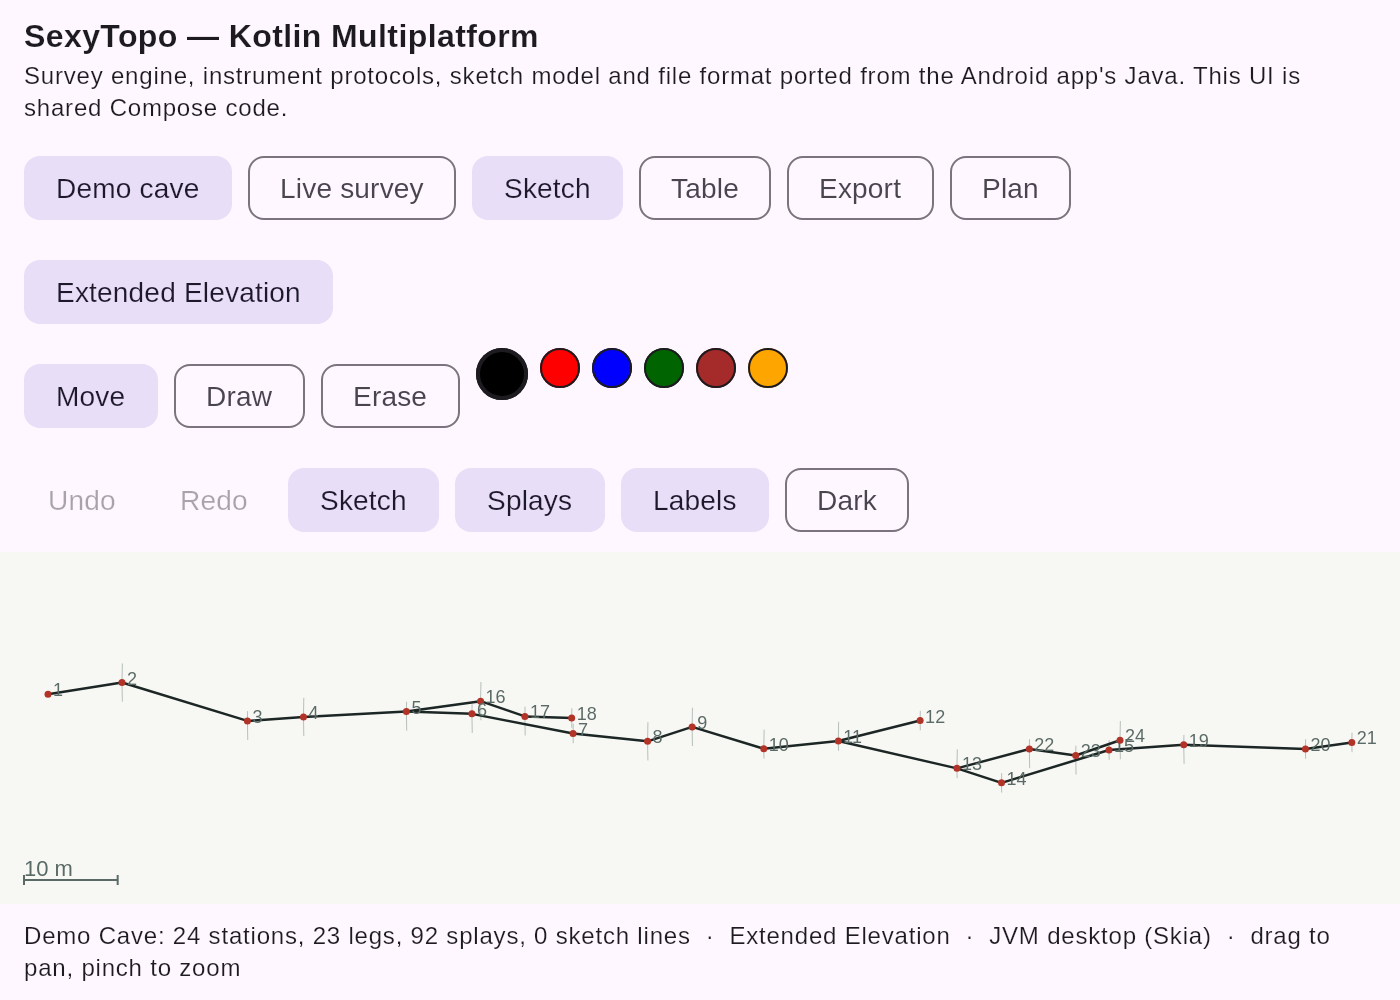
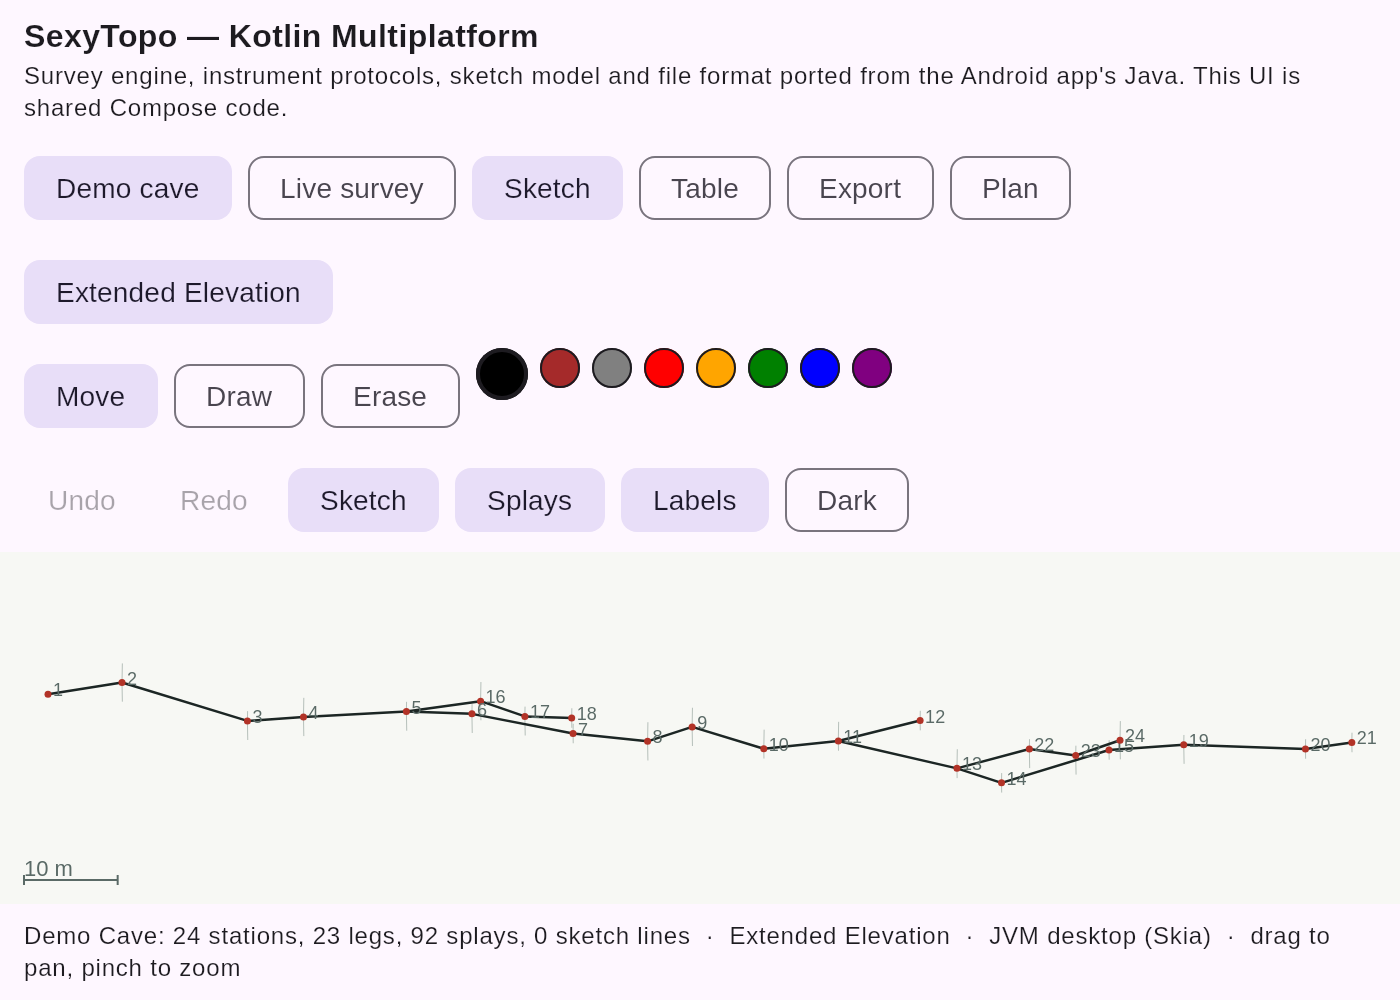
Bring the module README up to date with what the port now does
New rows in the proven/not-proven table for the exporters, the sketch
editor and the BLE connection logic; refreshed screenshots; two more
recorded findings - the assigned-number UUID bug that pulling logic out of
the untestable iOS transport exposed, and the loader's habit of turning
corruption into silent data loss.

Claude-Session: https://claude.ai/code/session_01EsWeeGYHa4RrEbZW2iXKma

Changed region(s): [[0.3686, 0.341, 0.645, 0.403]]

diff --git a/kmp/README.md b/kmp/README.md
@@ -7,9 +7,11 @@ yet. It exists to answer one question with running code rather than argument:
 > actually drive an iOS app?
 
 So far the answer is **yes for everything except the parts that need a Mac to check**. The survey
-engine, the instrument protocols, the projection maths, the sketch model and the native file format
-are ported and covered by 226 tests. The UI — including a drawable sketching canvas — is written
-once in Compose Multiplatform and renders through Skia, which is what Compose uses on iOS.
+engine, the instrument protocols, the projection maths, the sketch model, the sketch *editor*, the
+Survex and Therion exporters and the native file format are ported and covered by 372 tests. The UI
+is written once in Compose Multiplatform and renders through Skia, which is what Compose uses on
+iOS — and it drives the ported logic rather than reimplementing it, which is the part that actually
+tests the claim.
 
 Nothing in the existing Android app has been touched. `kmp/` is a separate Gradle build alongside
 it, which does not even need the Android SDK.
@@ -26,12 +28,15 @@ Being precise about this matters more than the demo looking good.
 | The survey engine builds stations from readings the way the app does | **Verified** | `SurveyUpdaterTest` (55 tests), triple-shot promotion and all three amalgamation algorithms |
 | Instrument packets decode identically | **Verified** | byte-level tests for DistoX, DistoX-BLE, BRIC, SAP6, Cavway, FCL |
 | The whole chain works end to end | **Verified** | `SurveyingEndToEndTest`: simulated instrument → packet decode → station promotion → JSON round-trip |
-| Native JSON survey/sketch formats read and written compatibly | **Verified** | round-trip tests against Android-shaped fixtures |
+| Native JSON survey/sketch formats read and written compatibly | **Verified** | round-trip tests against Android-shaped fixtures, including corrupt and old-format files |
+| Survex and Therion export byte-identically | **Verified** | golden tests asserting the full file, metadata block included |
+| The sketch editor — tools, viewport, hit-testing, undo — is platform-free | **Verified** | `shared/sketch/`, driven by the demo and tested on two targets |
+| The BLE connection logic is platform-free | **Verified** | `GattLinkTest`; only the CoreBluetooth callback plumbing is left in `iosMain` |
 | Shared Compose UI draws, and can be drawn on | **Verified** | `./gradlew :demo:renderDemoPng`; drawing/erasing/undo covered by tests |
-| **The shared core has no JVM-only dependencies** | **Verified** | all 202 shared tests pass on **Kotlin/Wasm** as well as the JVM |
+| **The shared core has no JVM-only dependencies** | **Verified** | all 343 shared tests pass on **Kotlin/Wasm** as well as the JVM |
 | The same code compiles for iOS | **Not verified** | Kotlin/Native for Apple targets needs macOS; this was authored on Linux |
 | The iOS app runs on a device | **Not verified** | needs Xcode |
-| `CoreBluetoothTransport` works | **Not verified** | written, never compiled — see its KDoc |
+| `CoreBluetoothTransport` works | **Not verified** | written, never compiled — but its logic now lives in `GattLink`, which is tested; see its KDoc |
 | Browser demo | **Builds and tests pass; the page does not render** | see "The browser target" below |
 
 **The honest summary:** everything checkable without a Mac has been checked and passes, and the
@@ -50,16 +55,26 @@ against real hardware. **Expect to fix something on the first real build.**
 - **Live surveying.** "Take reading" makes the simulated instrument emit a real DistoX wire-format
   packet; the ported protocol decodes it; the ported engine promotes three agreeing readings into a
   station. That is the core interaction of the whole app, and only the radio is pretend.
-- **Sketching.** Draw, erase and pan tools, six brush colours, undo/redo. Strokes are captured in
-  survey metres (never pixels) and simplified on release. Erasing splits a stroke rather than
-  deleting it, so rubbing out the middle of a passage wall leaves both ends.
+- **Sketching**, driven entirely by the shared `SketchEditor`, `SketchViewport` and `SketchTool`.
+  Draw, erase and move tools, the Android toolbar's eight brush colours, undo/redo. Strokes are
+  captured in survey metres (never pixels) and simplified on release. Erasing splits a stroke
+  rather than deleting it — rubbing out the middle of a passage wall leaves both ends — and it
+  hit-tests through the same visibility rule the renderer uses, so you cannot rub out what is too
+  small to see.
+- **Cross-sections**, drawn on the plan where the surveyor parked them.
+- **Export** to Survex `.svx` and Therion `.th`, and to the app's own JSON — the same bytes the
+  Android app would read back.
 - **Plan and extended elevation**, the latter exercising the cave-unrolling maths.
 - **The survey table**, with backwards shots normalised back to the reading as taken.
 - Light and dark, and a layout that collapses to one scrollable toolbar on a phone.
 
-| Extended elevation | Live survey from the instrument | Table |
-| --- | --- | --- |
-| ![elevation](docs/images/extended-elevation.png) | ![live](docs/images/live-survey.png) | ![table](docs/images/table.png) |
+| Extended elevation | Live survey from the instrument |
+| --- | --- |
+| ![elevation](docs/images/extended-elevation.png) | ![live](docs/images/live-survey.png) |
+
+| Survey table | Export |
+| --- | --- |
+| ![table](docs/images/table.png) | ![export](docs/images/export.png) |
 
 ---
 
@@ -70,9 +85,9 @@ Everything below works on Linux/macOS/Windows except where noted.
 ```bash
 cd kmp
 
-./gradlew :shared:jvmTest          # the ported test suite (202)
+./gradlew :shared:jvmTest          # the ported test suite (343)
 ./gradlew :shared:wasmJsNodeTest   # the same tests on a NON-JVM target
-./gradlew :demo:jvmTest            # the interactive drawing layer (24)
+./gradlew :demo:jvmTest            # the UI's use of the shared editor (29)
 ./gradlew :demo:renderDemoPng      # render the shared UI to PNGs, no display needed
 ./gradlew :demo:run                # the desktop app (needs a display)
 ```
@@ -111,7 +126,12 @@ function), the two Swift files in `iosApp/`, and — when you want real instrume
 | the `*Manager` classes' device knowledge | `shared/comms/InstrumentProfile.kt` | The BLE device matrix, as data |
 | Nordic `BleManager` subclasses | `shared/iosMain/.../CoreBluetoothTransport.kt` | The whole iOS Bluetooth surface |
 | `control/io/basic/*JsonTranslater` | `shared/io/` | Same tags, same tolerant two-pass load |
-| `control/graph/GraphView` (2,199 lines) | `demo/.../SurveyCanvas.kt` | **Rewritten**, not ported |
+| `control/graph/GraphView` — tools, viewport, hit-testing | `shared/sketch/` | Ported; the demo drives it |
+| `control/graph/GraphView` — drawing and touch plumbing | `demo/.../SurveyCanvas.kt` | **Rewritten**, not ported |
+| `model/sketch/Sketch`'s twin history stacks | `shared/sketch/SketchEditor.kt` | `DeletedDetail` becomes a sealed type |
+| `control/io/thirdparty/{survex,therion,survextherion}` | `shared/io/export/` | Golden-tested, metadata block included |
+| `model/table/LRUD` | `shared/survey/Lrud.kt` | |
+| `model/survey/Trip` | `shared/model/survey/Trip.kt` | `java.util.Date` becomes a zoneless `SurveyDate` |
 | `control/util/GraphToListTranslator` | `demo/.../SurveyTableView.kt` | Including as-taken normalisation |
 
 ---
@@ -147,8 +167,24 @@ These are the things that would actually shape a real port.
    callback, so routing by UUID makes that failure mode impossible.
 
 6. **The instrument layer really does split cleanly.** ~2,450 lines of protocol logic are shared and
-   byte-tested; the platform transport is ~270 lines. That was the feasibility study's central claim
-   about this layer and it holds up.
+   byte-tested; the platform transport is ~230 lines of pure callback plumbing, with its decisions
+   pulled out into a tested `GattLink`. That was the feasibility study's central claim about this
+   layer and it holds up.
+
+7. **Extracting the untestable code found a bug in it immediately.** The first
+   `CoreBluetoothTransport` compared `CBUUID.UUIDString` against the profile's 128-bit UUIDs as
+   plain strings. Assigned-number UUIDs — which is what BRIC4 and BRIC5 use for *all four* of their
+   characteristics — have a 16-bit short form, and CoreBluetooth reports whichever width the UUID
+   actually has, so none of BRIC's characteristics would have matched: the instrument would pair
+   and then do nothing. Android's `UUID.toString()` is always 128-bit, which is why the original
+   never had to think about it. Nobody would have found this without a Mac, a BRIC and a cave.
+
+8. **The Java loader silently turns corruption into data loss.** A leg naming a station missing
+   from the file becomes a *splay* if you resolve the name leniently, which detaches every station
+   beyond it with no error — the port did exactly this until a review caught it. Saving a sketch
+   also dropped every cross-section. Both are the worst failure mode a survey app has: the file
+   still opens, and what is missing is a branch of the cave. Anything reimplementing this format
+   should start from the tests in `SurveyLoaderFidelityTest`.
 
 ---
 
@@ -172,9 +208,12 @@ This is a proof of concept. It does **not** include:
   no Android transport here (the Android app keeps its own).
 - **Calibration.** The DistoX calibration solver is pure maths and would port directly; it is not
   done.
-- **Symbol artwork, cross-sections, text and select tools.** The canvas draws and erases lines.
-- **The exporters** — Therion, Survex, Compass, PocketTopo, SVG, XVI.
-- **The rest of the Android UI**: trip metadata, settings, stats, the 3D view, the manual.
+- **Symbol artwork.** The shared model places symbols; the SVG assets are not carried, so a symbol
+  draws as a marked point. The symbol, text and cross-section *tools* exist in the shared model but
+  the demo has no palette, text field or cross-section editor to drive them.
+- **The other exporters** — Compass, PocketTopo, SVG, XVI, and Therion's `.th2` sketch files.
+  Survex and Therion `.th` are done and golden-tested.
+- **The rest of the Android UI**: settings, stats, the 3D view, the manual.
 - **The Android app adopting this core.** That is the step that would make the work pay for itself
   regardless of the iOS outcome, and it is deliberately not attempted yet — it also needs an Android
   SDK, which the machine this was written on did not have.
@@ -189,8 +228,10 @@ Roughly the order that keeps every intermediate state shippable:
 2. **Licensing, in parallel and early.** GPL-3.0 on the App Store needs a Section 7 "App Store
    exception" from every copyright holder — Rich, the eight named contributors, and Beat Heeb for
    the calibration algorithm. It gates release, not development, so it should start first.
-3. Extend the shared core to the exporters, gated on byte-identical output against the existing
-   `exportTherionFixtures` / `exportSvgFixtures` golden bundles.
+3. Finish the exporters — Survex and Therion `.th` are done here; `.th2`, SVG, Compass and
+   PocketTopo are not. Gate all of them on byte-identical output against the existing
+   `exportTherionFixtures` / `exportSvgFixtures` golden bundles, which is a stronger check than the
+   hand-written goldens in this branch.
 4. **Point the Android app at the shared core and ship it.** After this the effort has paid for
    itself even if iOS never happens.
 5. Then the iOS-specific work: compile it, fix what the first build finds, file handling, and
